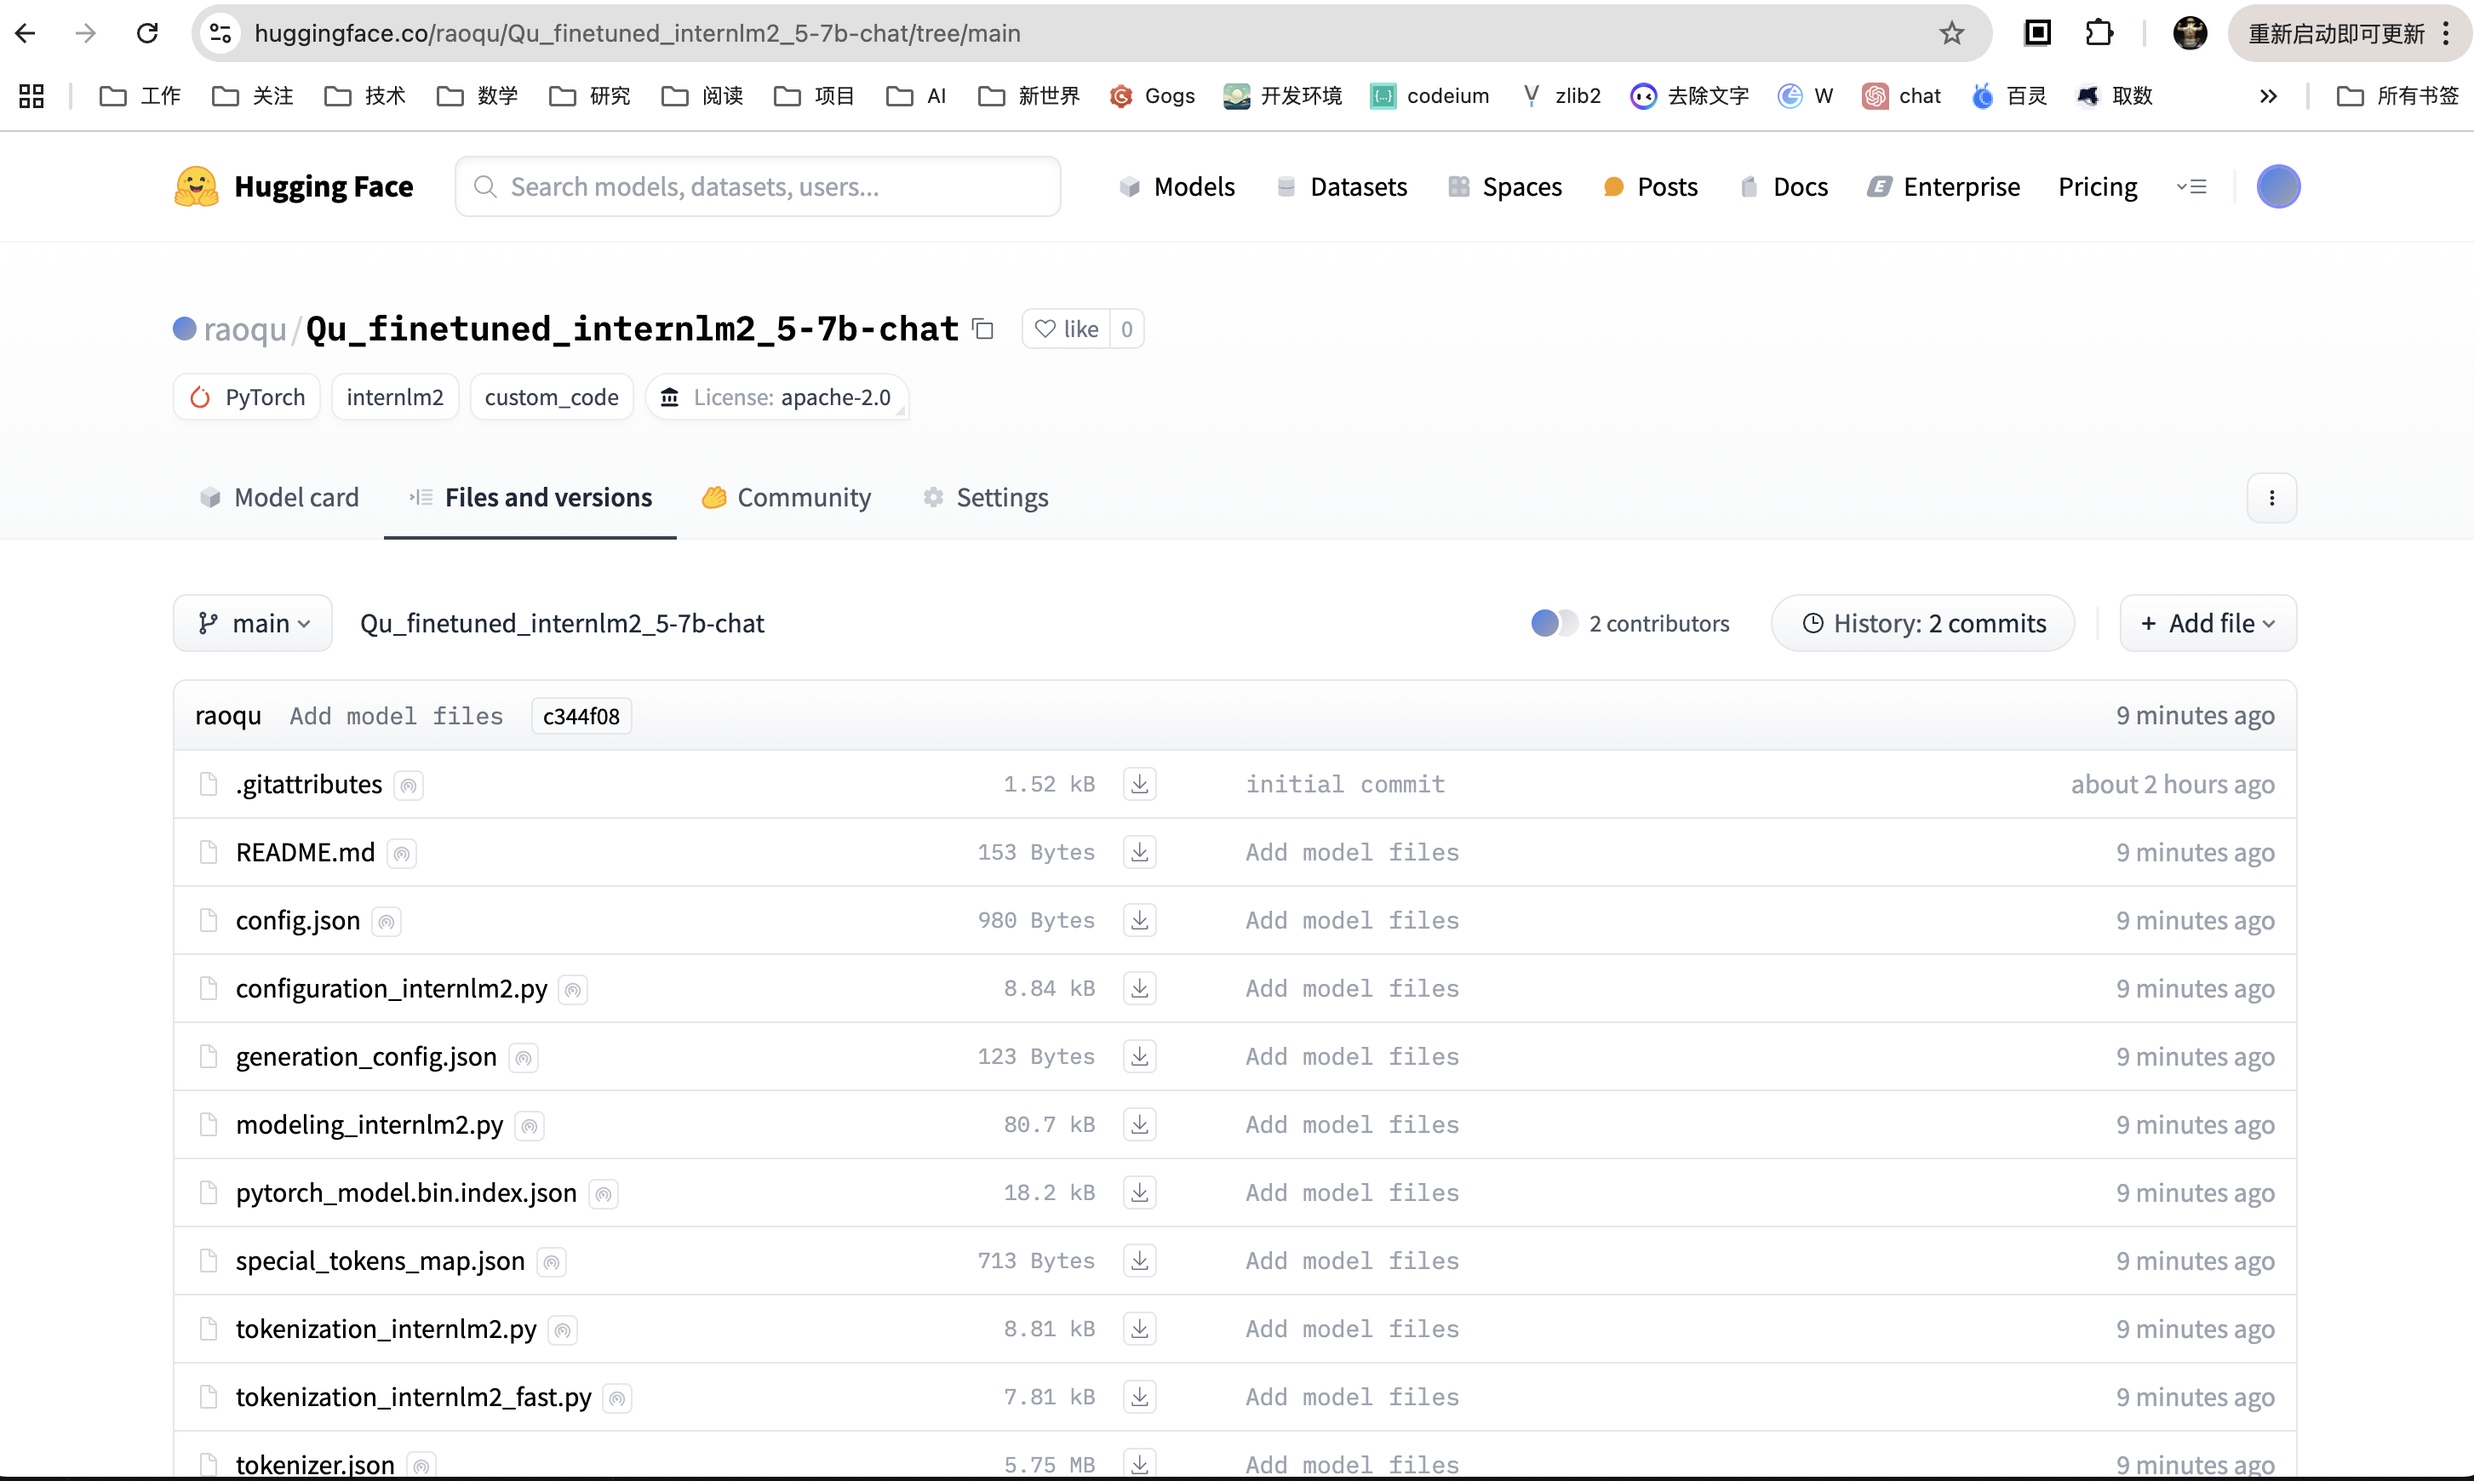
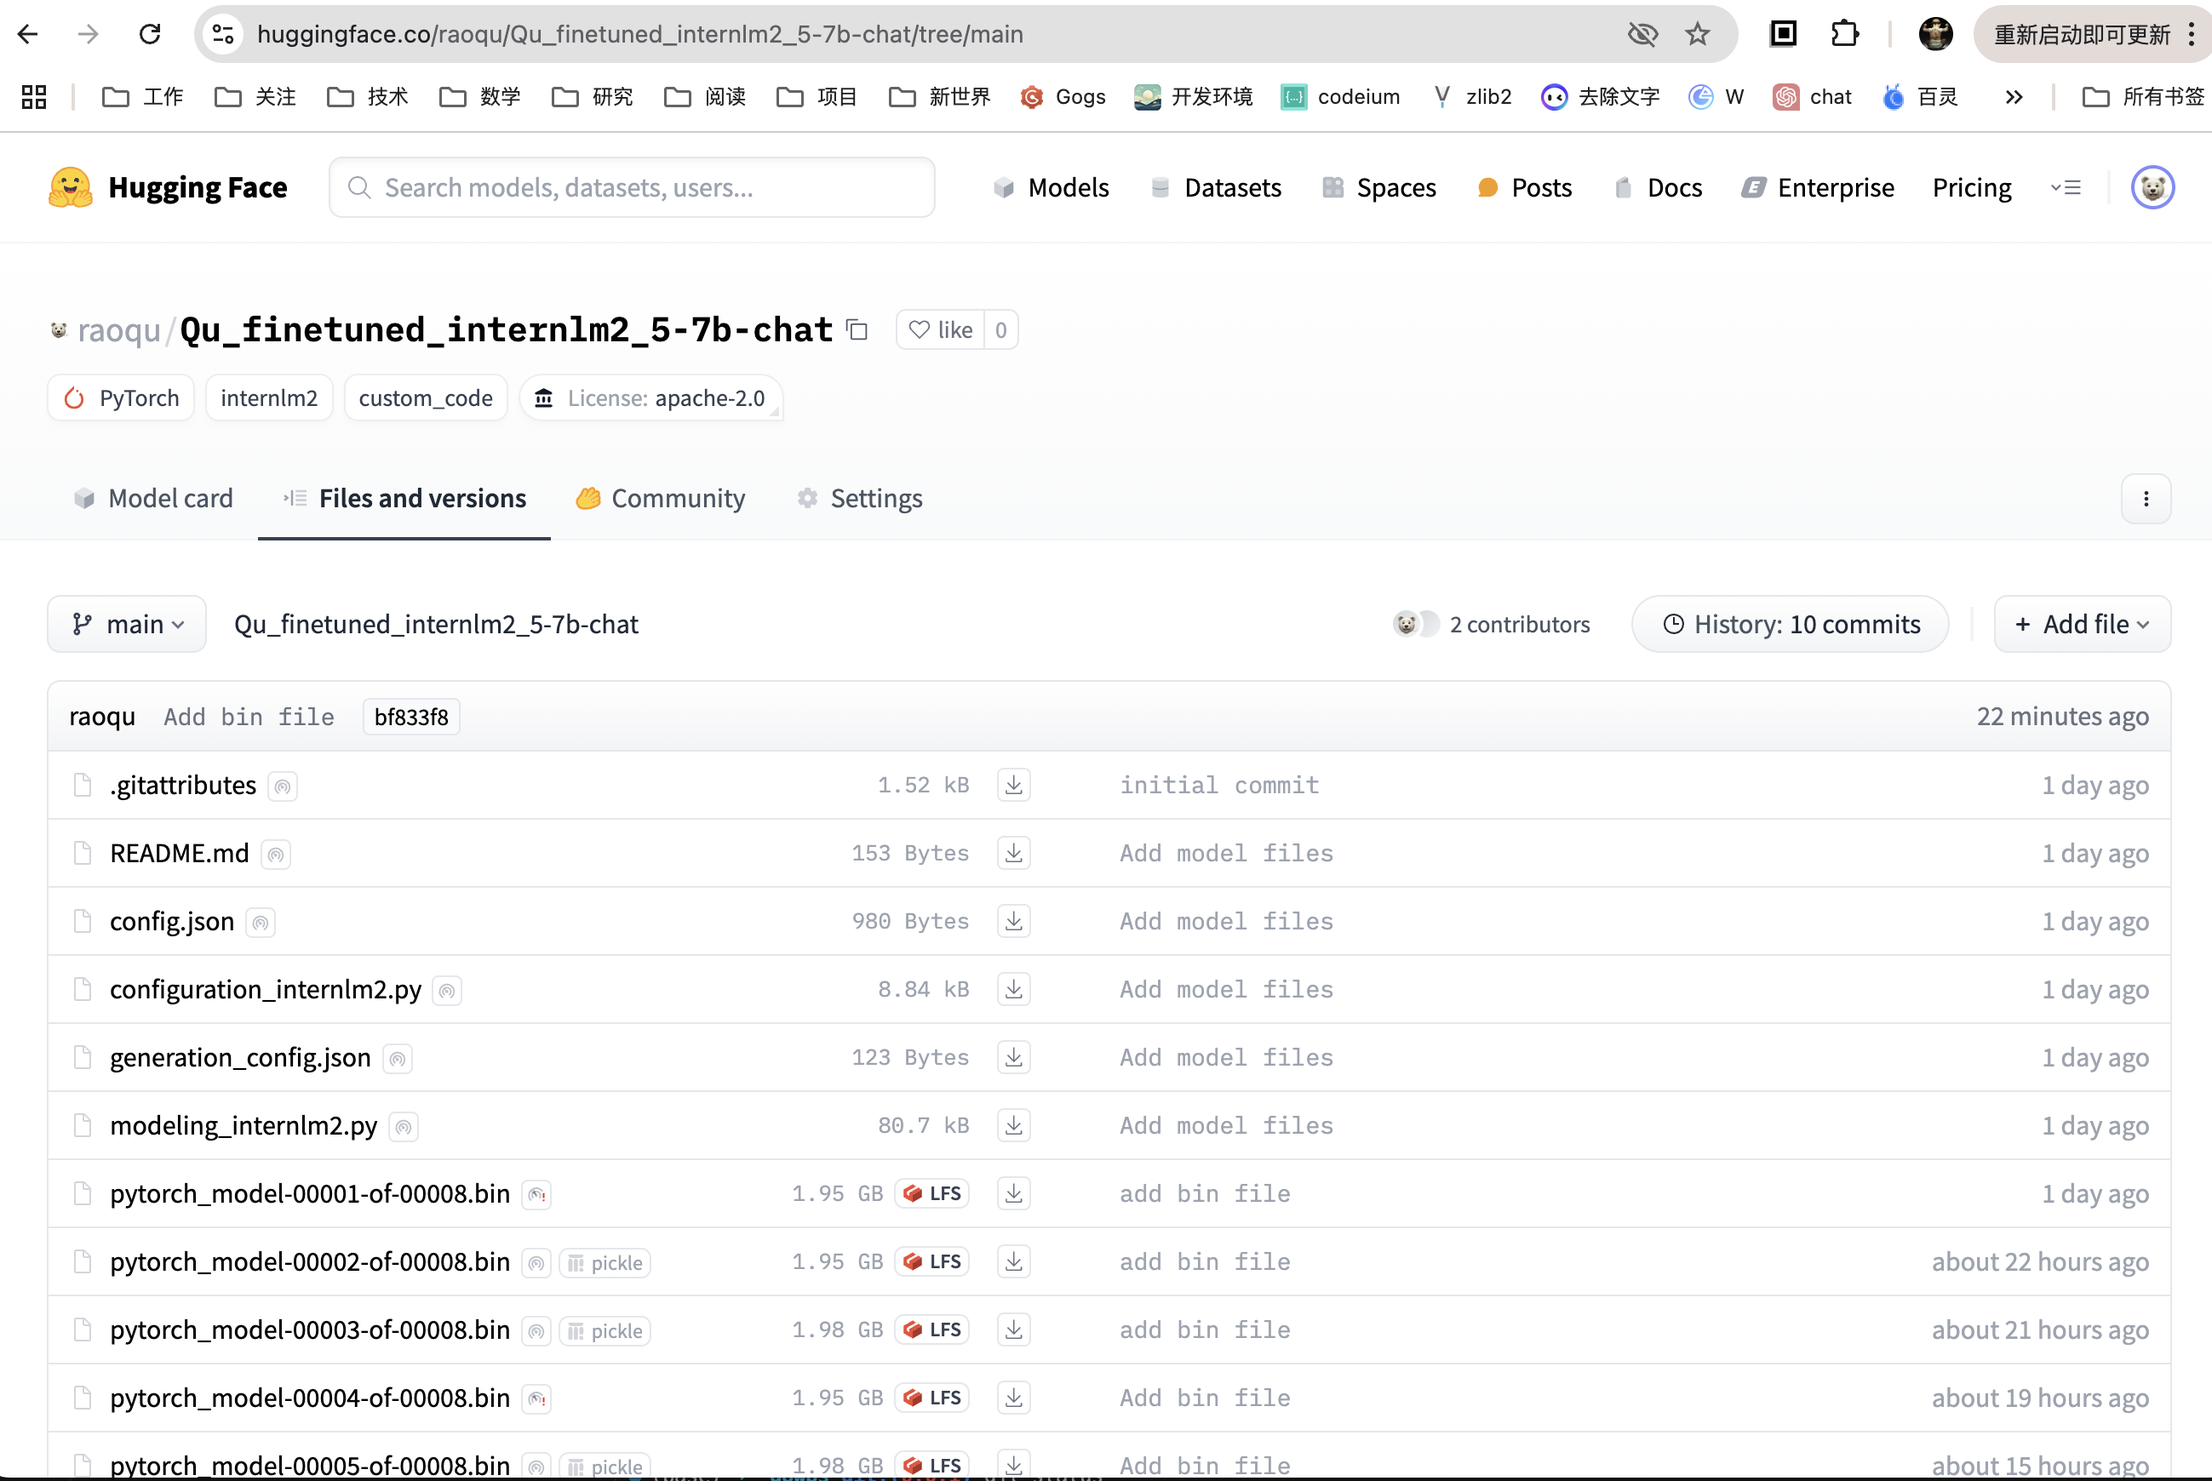
L1/mission5 模型文件上传完毕

diff --git a/docs/L1/mission5/readme.md b/docs/L1/mission5/readme.md
@@ -88,13 +88,16 @@ ssh -p 49895 root@ssh.intern-ai.org.cn -CNg -L 8501:127.0.0.1:8501 -o StrictHost
 git clone https://huggingface.co/raoqu/Qu_finetuned_internlm2_5-7b-chat
 ```
 3. 将 work_dirs/assistTuner/merged 目录下的文件通过git添加到项目中
+
+模型文件很大，因此git lfs是必需要提前安装的
+
 ```bash
 # 需要提前安装git lfs
 git add .
 git commit -m "Add model files"
 git push
 ```
-由于模型文件太大，目前只上传了其他非bin文件
+
 ```
 (xtuner-env) root@intern-studio-41605128:~/finetune/work_dirs/assistTuner/merged# ls -lhSr
 total 15G
@@ -123,7 +126,7 @@ total 15G
 
 ## 2. 部署应用到 HuggingFace
 
-注：由于免费的space硬件所限，以及模型文件未上传完整，Space无法实际运行
+注：由于免费的space硬件所限，Space无法实际运行
 
 1. 在Huggingface 上创建Space: [QuAssistant](https://huggingface.co/spaces/raoqu/QuAssistant)
 2. git clone 到本地
